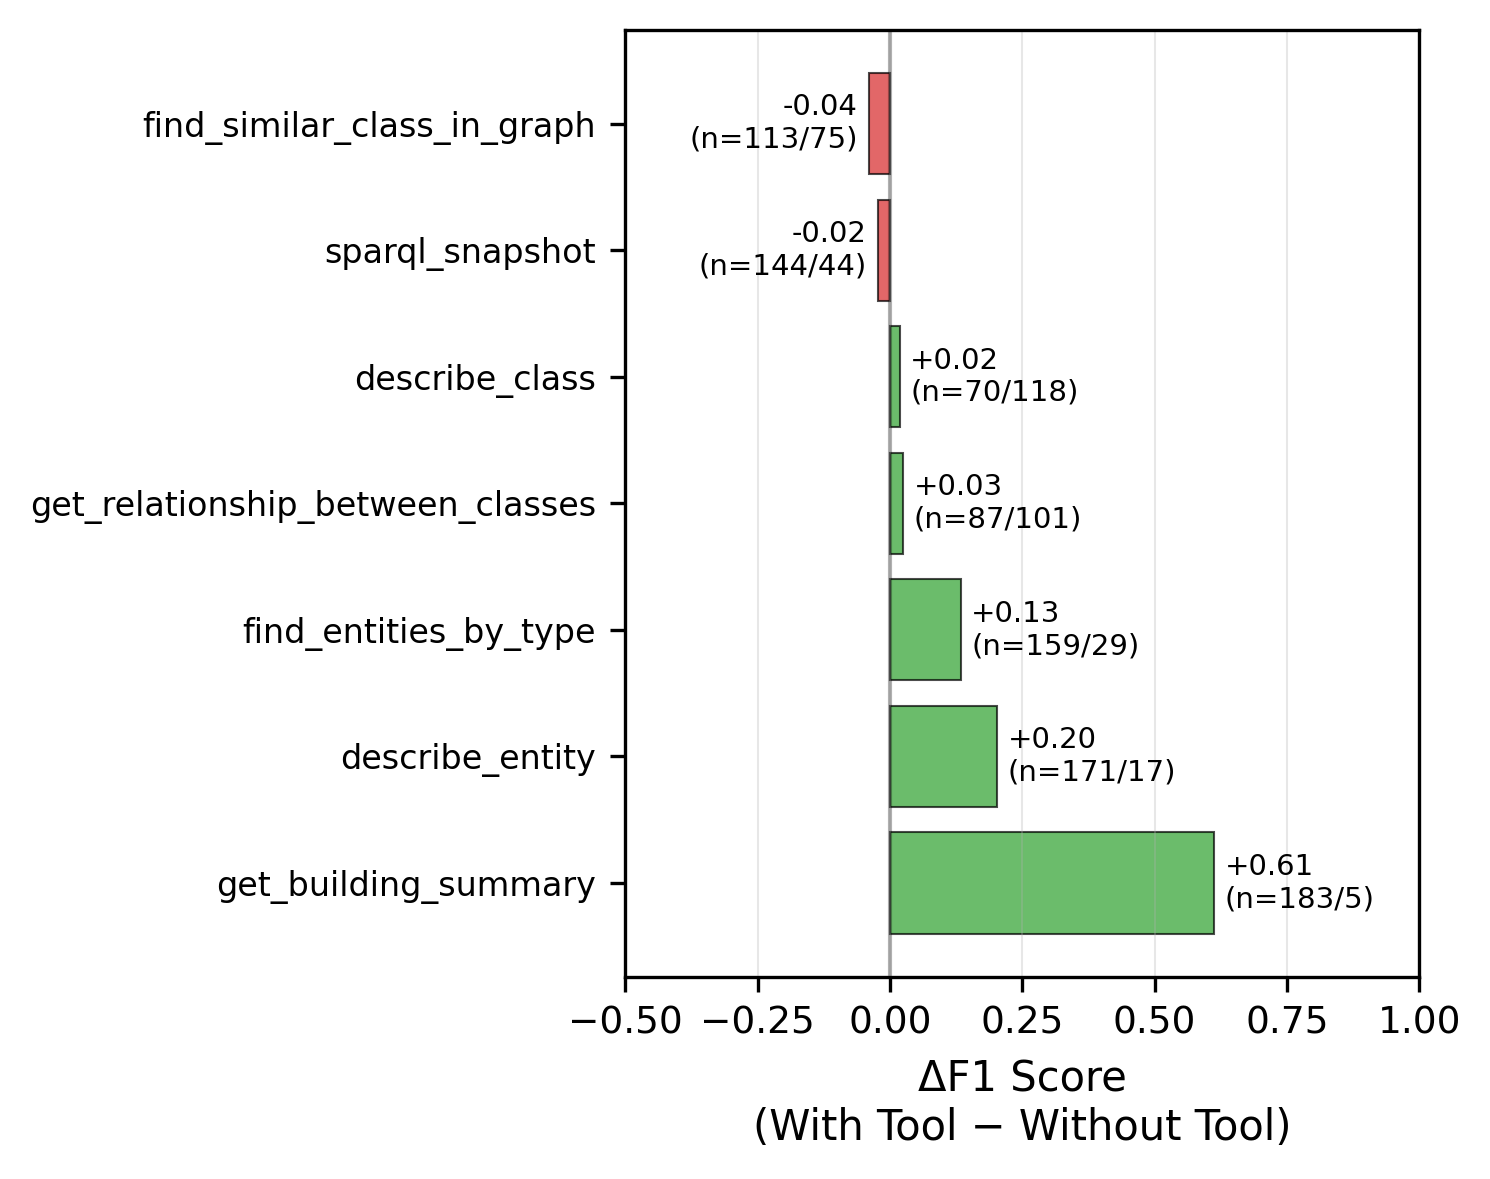
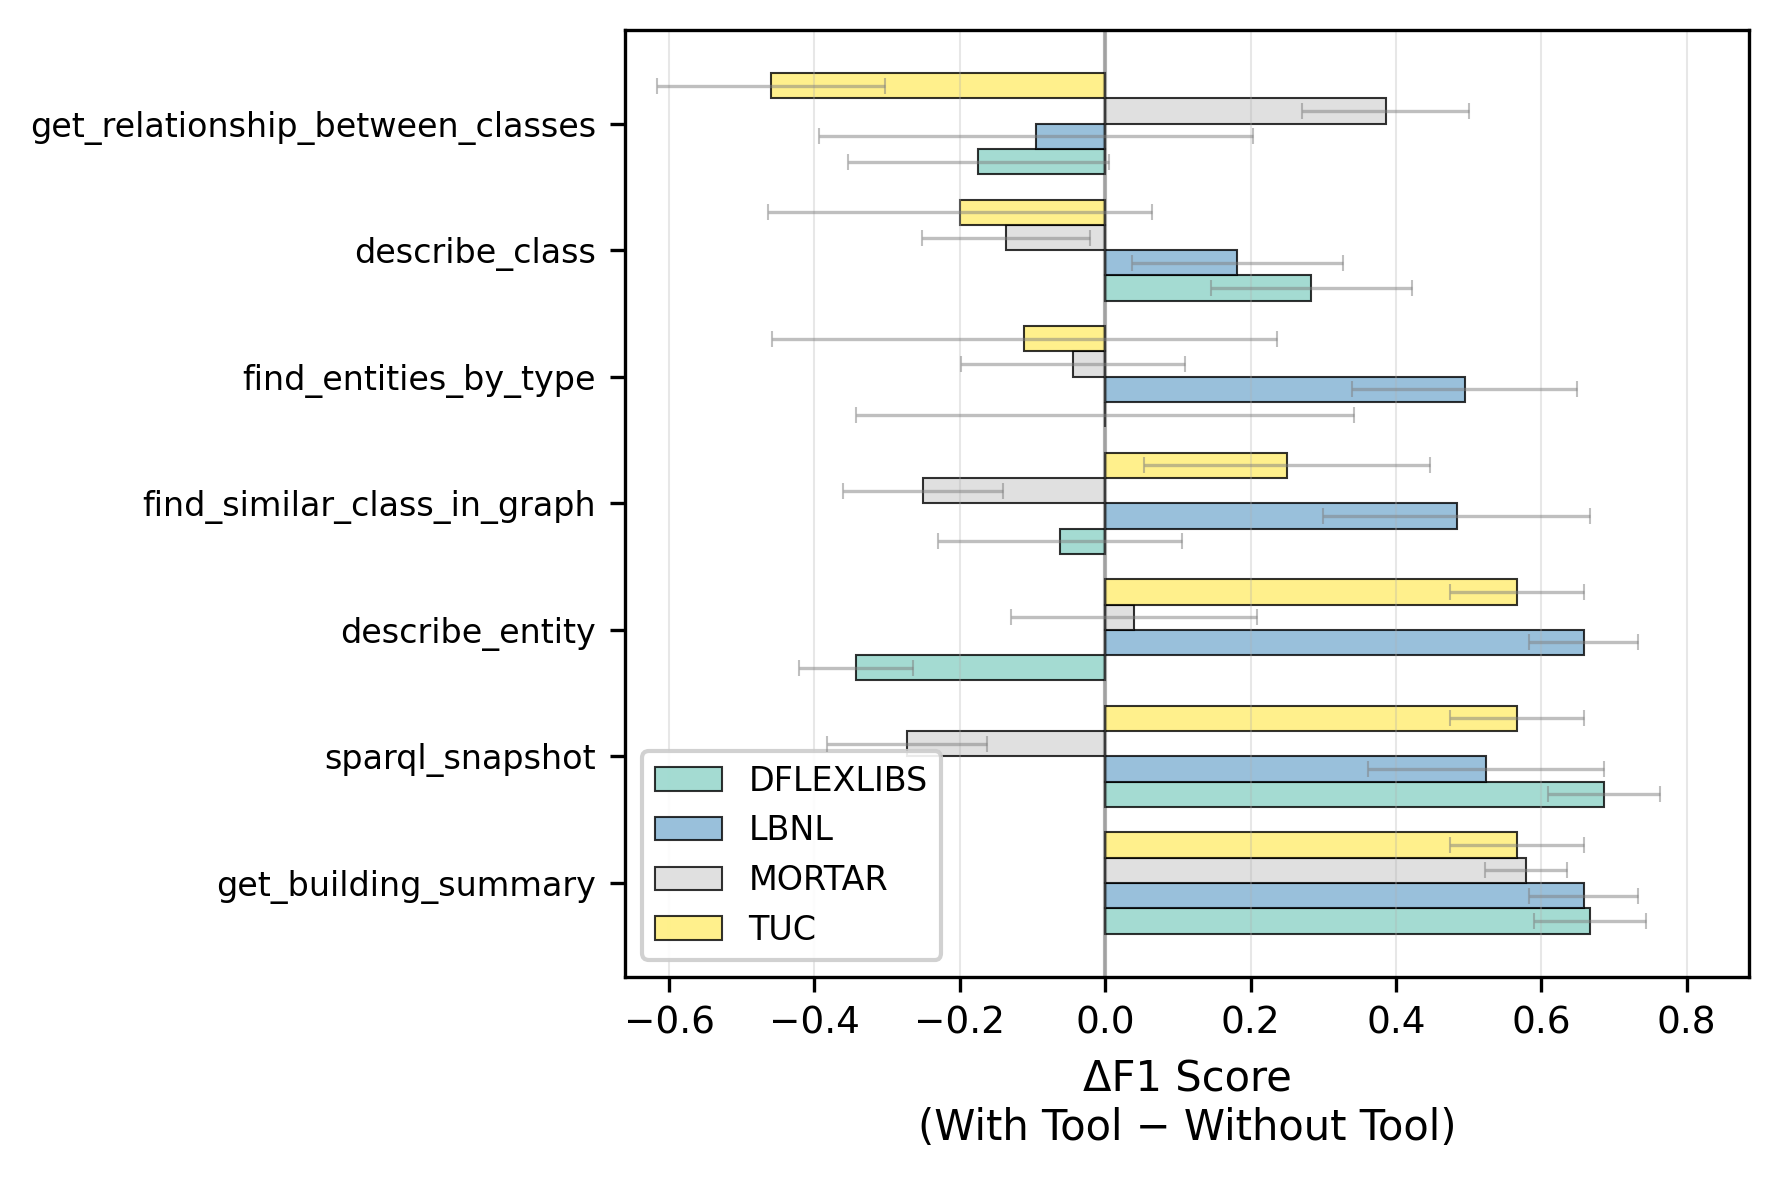
changing tool usage plot

diff --git a/scripts/visualize_tool_usage.py b/scripts/visualize_tool_usage.py
@@ -3,7 +3,7 @@
 Visualize Tool Usage Metrics
 
 This script creates visualizations for:
-- Tool impact on performance (delta F1)
+- Tool impact on performance (delta F1) broken down by building
 - Correlation between tool count and performance
 """
 
@@ -89,95 +89,150 @@ def compute_tool_success_correlation(data):
     return query_data
 
 
-def compute_tool_impact_stats(query_data, min_occurrences=5):
-    """Compute impact statistics for each tool."""
-    tool_stats = defaultdict(lambda: {
+def compute_tool_impact_stats_by_building(query_data, min_occurrences=5):
+    """Compute impact statistics for each tool broken down by building."""
+    tool_building_stats = defaultdict(lambda: defaultdict(lambda: {
         'with_tool_f1': [],
         'without_tool_f1': [],
         'usage_count': 0
-    })
+    }))
     
-    # Get all unique tools
+    # Get all unique tools and buildings
     all_tools = set()
+    all_buildings = set()
     for query in query_data:
         all_tools.update(query['tools'])
+        all_buildings.add(query['building'])
     
-    # For each tool, track F1 scores when present vs absent
+    # For each tool and building combination, track F1 scores when present vs absent
     for tool in all_tools:
-        for query in query_data:
-            if tool in query['tools']:
-                tool_stats[tool]['with_tool_f1'].append(query['row_f1'])
-                tool_stats[tool]['usage_count'] += 1
-            else:
-                tool_stats[tool]['without_tool_f1'].append(query['row_f1'])
+        for building in all_buildings:
+            building_queries = [q for q in query_data if q['building'] == building]
+            for query in building_queries:
+                if tool in query['tools']:
+                    tool_building_stats[tool][building]['with_tool_f1'].append(query['row_f1'])
+                    tool_building_stats[tool][building]['usage_count'] += 1
+                else:
+                    tool_building_stats[tool][building]['without_tool_f1'].append(query['row_f1'])
     
     # Compute statistics
-    tool_metrics = {}
-    for tool, stats in tool_stats.items():
-        if stats['usage_count'] >= min_occurrences:
-            with_f1 = statistics.mean(stats['with_tool_f1']) if stats['with_tool_f1'] else 0
-            without_f1 = statistics.mean(stats['without_tool_f1']) if stats['without_tool_f1'] else 0
-            
-            tool_metrics[tool] = {
-                'with_f1': with_f1,
-                'without_f1': without_f1,
-                'delta_f1': with_f1 - without_f1,
-                'usage_count': stats['usage_count'],
-                'with_count': len(stats['with_tool_f1']),
-                'without_count': len(stats['without_tool_f1'])
-            }
+    tool_metrics = defaultdict(dict)
+    for tool, building_stats in tool_building_stats.items():
+        # Check if tool meets minimum occurrence threshold across all buildings
+        total_usage = sum(stats['usage_count'] for stats in building_stats.values())
+        if total_usage >= min_occurrences:
+            for building, stats in building_stats.items():
+                if stats['with_tool_f1']:  # Only include if tool was used with this building
+                    with_f1 = statistics.mean(stats['with_tool_f1'])
+                    without_f1 = statistics.mean(stats['without_tool_f1']) if stats['without_tool_f1'] else 0
+                    
+                    # Calculate standard error for delta F1
+                    # Using bootstrap-style approximation for SEM of difference
+                    with_std = statistics.stdev(stats['with_tool_f1']) if len(stats['with_tool_f1']) > 1 else 0
+                    without_std = statistics.stdev(stats['without_tool_f1']) if len(stats['without_tool_f1']) > 1 else 0
+                    
+                    with_sem = with_std / np.sqrt(len(stats['with_tool_f1'])) if len(stats['with_tool_f1']) > 0 else 0
+                    without_sem = without_std / np.sqrt(len(stats['without_tool_f1'])) if len(stats['without_tool_f1']) > 0 else 0
+                    
+                    # Standard error of difference (assuming independence)
+                    delta_sem = np.sqrt(with_sem**2 + without_sem**2)
+                    
+                    tool_metrics[tool][building] = {
+                        'with_f1': with_f1,
+                        'without_f1': without_f1,
+                        'delta_f1': with_f1 - without_f1,
+                        'delta_sem': delta_sem,
+                        'usage_count': stats['usage_count'],
+                        'with_count': len(stats['with_tool_f1']),
+                        'without_count': len(stats['without_tool_f1'])
+                    }
     
     return tool_metrics
 
 
 # ----------------------------------------------------------------------
-# Visualization 1: Tool impact on performance
+# Visualization 1: Tool impact on performance (by building)
 # ----------------------------------------------------------------------
 def plot_tool_impact(tool_metrics, output_path="tool_impact.png"):
-    """Create visualization showing tool impact on performance."""
+    """Create visualization showing tool impact on performance broken down by building."""
     
     if not tool_metrics:
         print("No tool metrics to plot")
         return
     
-    # Sort tools by delta F1 (impact on performance)
-    sorted_tools = sorted(tool_metrics.items(), 
-                        key=lambda x: x[1]['delta_f1'], 
-                        reverse=True)
+    # Get all buildings
+    all_buildings = set()
+    for tool_data in tool_metrics.values():
+        all_buildings.update(tool_data.keys())
+    buildings = sorted(all_buildings)
     
-    tools = [t[0] for t in sorted_tools]
-    delta_f1s = [t[1]['delta_f1'] for t in sorted_tools]
-    with_counts = [t[1]['with_count'] for t in sorted_tools]
-    without_counts = [t[1]['without_count'] for t in sorted_tools]
+    # Calculate average delta F1 across buildings for sorting
+    tool_avg_delta = {}
+    for tool, building_data in tool_metrics.items():
+        deltas = [data['delta_f1'] for data in building_data.values()]
+        tool_avg_delta[tool] = statistics.mean(deltas) if deltas else 0
     
-    # Create figure - sized for single column (typically ~3.5 inches wide)
-    fig, ax = plt.subplots(figsize=(5, 4))
+    # Sort tools by average delta F1
+    sorted_tools = sorted(tool_avg_delta.keys(), 
+                         key=lambda x: tool_avg_delta[x], 
+                         reverse=True)
     
-    # Delta F1 (impact on performance)
-    colors = ['#2ca02c' if d > 0 else '#d62728' for d in delta_f1s]
-    bars = ax.barh(tools, delta_f1s, color=colors, alpha=0.7, 
-                   edgecolor='black', linewidth=0.5)
+    # Prepare data for grouped bar chart
+    n_tools = len(sorted_tools)
+    n_buildings = len(buildings)
     
+    # Create figure
+    fig, ax = plt.subplots(figsize=(6, max(4, n_tools * 0.4)))
+    
+    # Set up bar positions
+    bar_height = 0.8 / n_buildings
+    y_positions = np.arange(n_tools)
+    
+    # Color palette for buildings
+    colors = plt.cm.Set3(np.linspace(0, 1, n_buildings))
+    
+    # Plot bars for each building
+    for i, building in enumerate(buildings):
+        deltas = []
+        errors = []
+        for tool in sorted_tools:
+            if building in tool_metrics[tool]:
+                deltas.append(tool_metrics[tool][building]['delta_f1'])
+                errors.append(tool_metrics[tool][building]['delta_sem'])
+            else:
+                deltas.append(np.nan)  # No data for this building/tool combo
+                errors.append(0)
+        
+        y_pos = y_positions + (i - n_buildings/2 + 0.5) * bar_height
+        bars = ax.barh(y_pos, deltas, bar_height, 
+                      label=building, color=colors[i], alpha=0.8,
+                      edgecolor='black', linewidth=0.5)
+        
+        # Add error bars (inconspicuous style)
+        for j, (y, delta, error) in enumerate(zip(y_pos, deltas, errors)):
+            if not np.isnan(delta) and error > 0:
+                ax.errorbar(delta, y, xerr=error, 
+                           fmt='none', ecolor='gray', 
+                           capsize=2, capthick=0.5, 
+                           linewidth=0.8, alpha=0.5, zorder=10)
+    
+    # Add vertical line at x=0
     ax.axvline(x=0, color='black', linewidth=1, linestyle='-', alpha=0.3)
+    
+    # Formatting
+    ax.set_yticks(y_positions)
+    ax.set_yticklabels(sorted_tools, fontsize=8)
     ax.set_xlabel('ΔF1 Score\n(With Tool − Without Tool)', fontsize=10)
-    # ax.set_title('Tool Impact on Performance', fontsize=11, pad=10)
     ax.grid(axis='x', alpha=0.3, linewidth=0.5)
+    ax.legend(loc='best', fontsize=8, framealpha=0.9)
     
     # Set x-axis limits
-    ax.set_xlim(-0.5, 1.0)
-    
-    # Adjust tick label size
-    ax.tick_params(axis='y', labelsize=8)
-    ax.tick_params(axis='x', labelsize=9)
-    
-    # Add value labels with sample counts - more compact format
-    for i, (tool, delta, with_n, without_n) in enumerate(zip(tools, delta_f1s, with_counts, without_counts)):
-        x_pos = delta + (0.02 if delta > 0 else -0.02)
-        ha = 'left' if delta > 0 else 'right'
-        # Combine into single line for space efficiency
-        label = f'{delta:+.2f}\n(n={with_n}/{without_n})'
-        ax.text(x_pos, i, label, 
-                va='center', ha=ha, fontsize=7)
+    all_deltas = [data['delta_f1'] for tool_data in tool_metrics.values() 
+                  for data in tool_data.values()]
+    if all_deltas:
+        x_min = min(min(all_deltas), -0.1)
+        x_max = max(max(all_deltas), 0.1)
+        ax.set_xlim(x_min - 0.2, x_max + 0.2)
     
     plt.tight_layout()
     plt.savefig(output_path, dpi=300, bbox_inches='tight')
@@ -230,13 +285,11 @@ def plot_correlation_heatmap(query_data, output_path="correlation_heatmap.png"):
     ax.set_yticklabels(buildings, fontsize=9)
     ax.set_xticks([0])
     ax.set_xticklabels(['Tool Count vs. F1'], fontsize=9)
-    # ax.set_title('Correlation: Tool Usage and Performance', fontsize=11, pad=10)
     
     # Add correlation values as text with sample size
     for i, (corr, p_val, n) in enumerate(zip(correlations, p_values, sample_sizes)):
         color = 'white' if abs(corr) > 0.5 else 'black'
         significance = '*' if p_val < 0.05 else ''
-        # More compact format
         ax.text(0, i, f'{corr:.2f}{significance}\n(n={n})', 
                 ha='center', va='center', color=color, fontsize=8)
     
@@ -244,11 +297,6 @@ def plot_correlation_heatmap(query_data, output_path="correlation_heatmap.png"):
     cbar = plt.colorbar(im, ax=ax, fraction=0.046, pad=0.04)
     cbar.set_label('Pearson r', rotation=270, labelpad=15, fontsize=9)
     cbar.ax.tick_params(labelsize=8)
-    
-    # Add note about significance - smaller font
-    # fig.text(0.5, -0.02, '* p < 0.05', 
-    #         ha='center', fontsize=7, style='italic',
-    #         transform=ax.transAxes)
     
     plt.tight_layout()
     plt.savefig(output_path, dpi=300, bbox_inches='tight')
@@ -296,7 +344,7 @@ def main():
     # Compute metrics
     print("\nComputing metrics...")
     query_data = compute_tool_success_correlation(data)
-    tool_impact = compute_tool_impact_stats(query_data, args.min_tool_occurrences)
+    tool_impact = compute_tool_impact_stats_by_building(query_data, args.min_tool_occurrences)
     
     print(f"  Analyzed {len(tool_impact)} tools (min {args.min_tool_occurrences} occurrences)")
     
